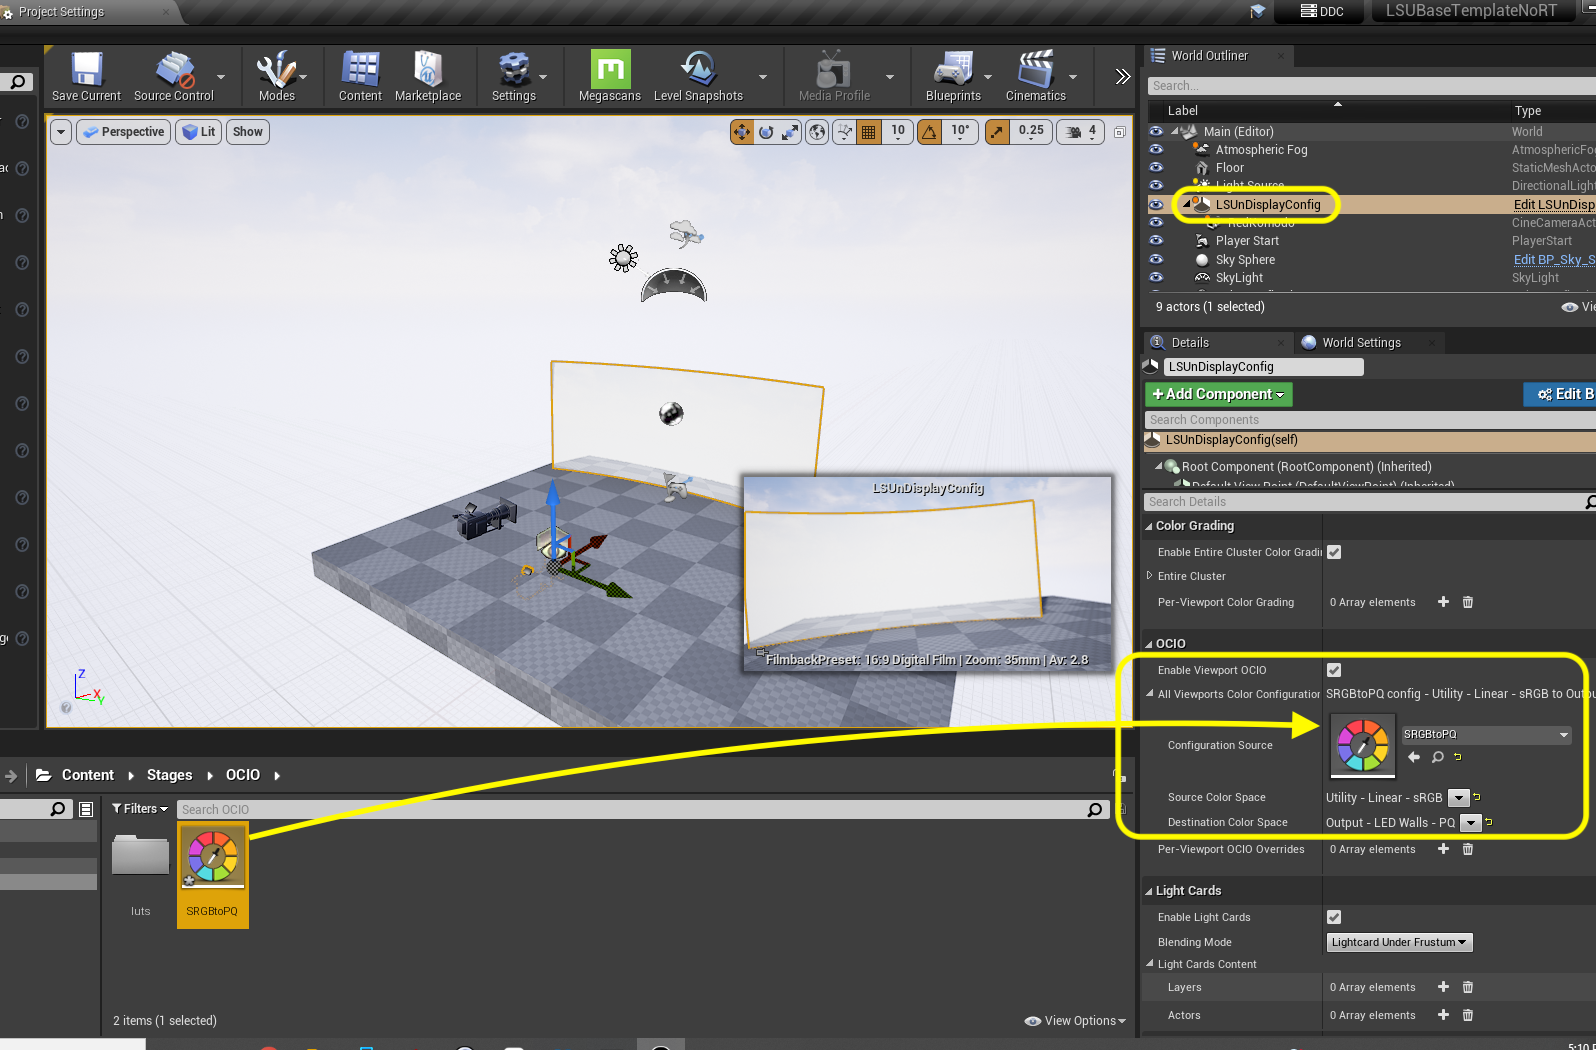
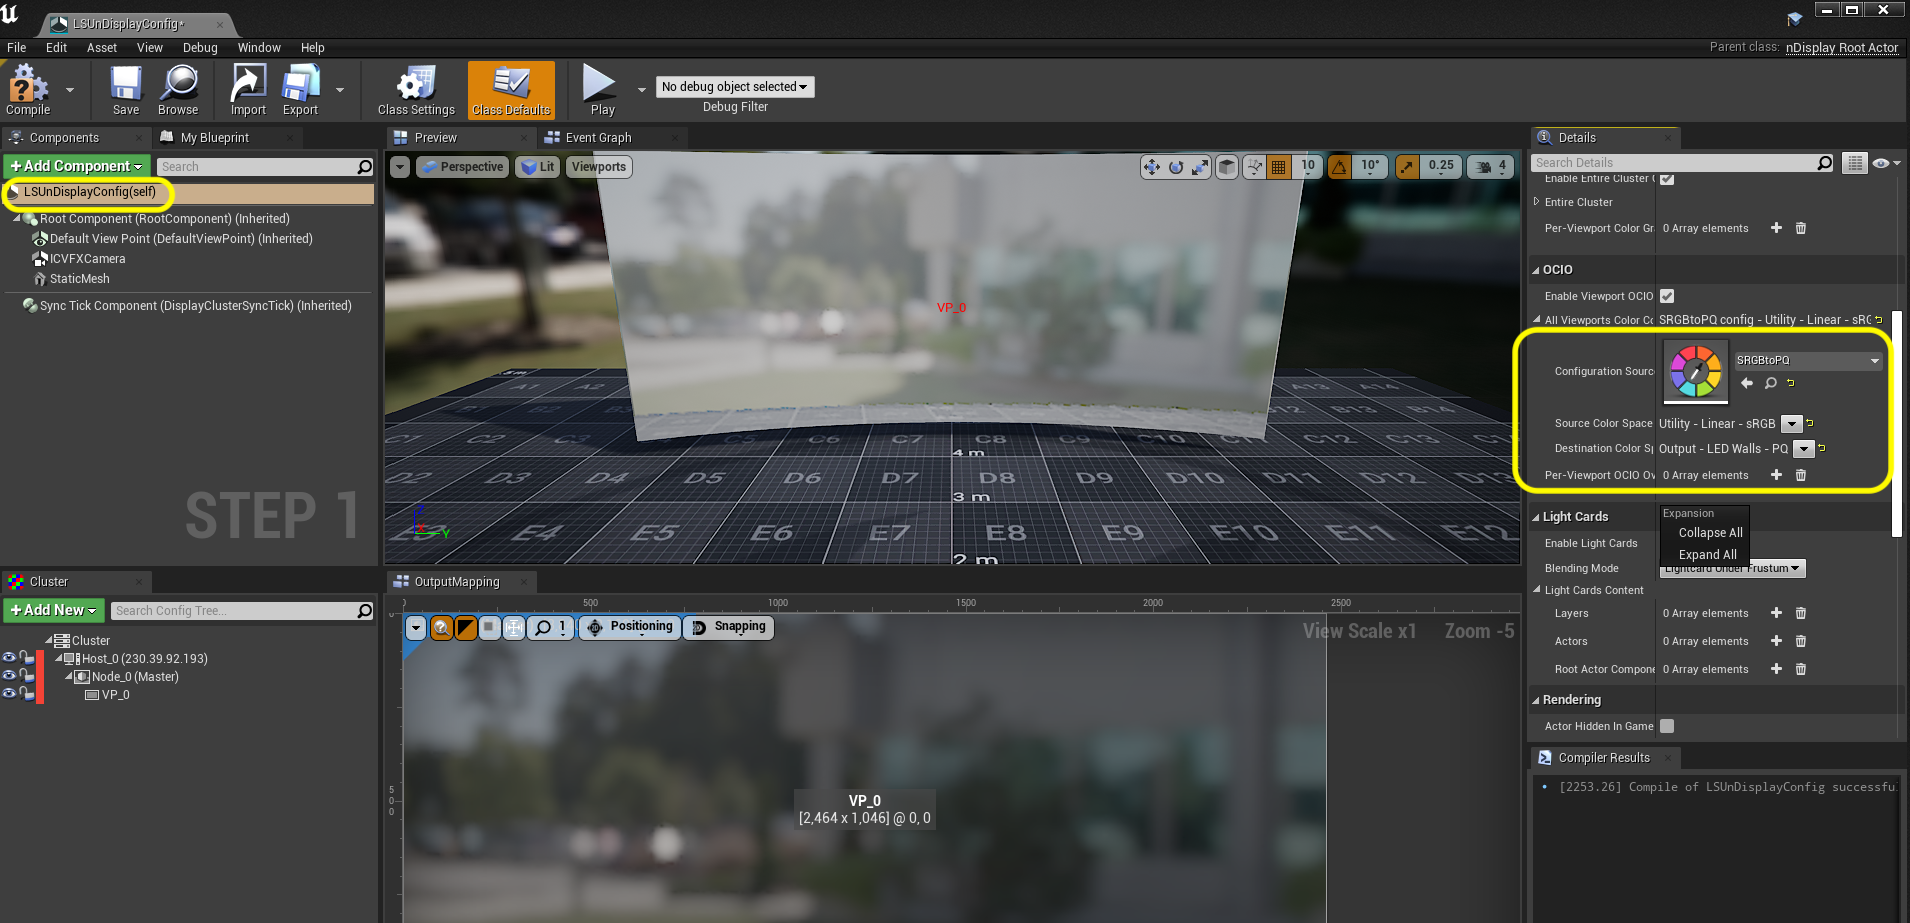
porting walk through

diff --git a/hdr-output/README.md b/hdr-output/README.md
@@ -74,7 +74,7 @@ Next to **Desired Color Space** press the **+** button next to **Desired Color S
 
 ##### `Step 8.`\|`BTS`| :small_orange_diamond: :small_blue_diamond: :small_blue_diamond: :small_blue_diamond:
 
-Select **LSUnDIsplayACong** in **World Outliner** and drag the **SRGBtoPQ** item to **OCIO | Configuration Source**.  Then select the **Source Color Space** as `Utility - Linear - sRGB` and **Destination Color Space** as `Output - LED Walls - PQ`.
+Open the **LSUnDIsplayACong** Blueprint and select the  **OCIO | Configuration Source** selecting the `SRGBtoPQ` item.  Then select the **Source Color Space** as `Utility - Linear - sRGB` and **Destination Color Space** as `Output - LED Walls - PQ`.
 
 ![assign ocio to ndisplay config and pick source and destination color](images/assignOCIO.png)
 
@@ -82,7 +82,7 @@ Select **LSUnDIsplayACong** in **World Outliner** and drag the **SRGBtoPQ** item
 
 ##### `Step 9.`\|`BTS`| :small_orange_diamond: :small_blue_diamond: :small_blue_diamond: :small_blue_diamond: :small_blue_diamond:
 
-![alt_text](images/.png)
+![alt_text](images/ocioIcvx.png)
 
 <img src="https://via.placeholder.com/500x2/45D7CA/45D7CA" alt="drawing" height="2px" alt = ""/>
 
